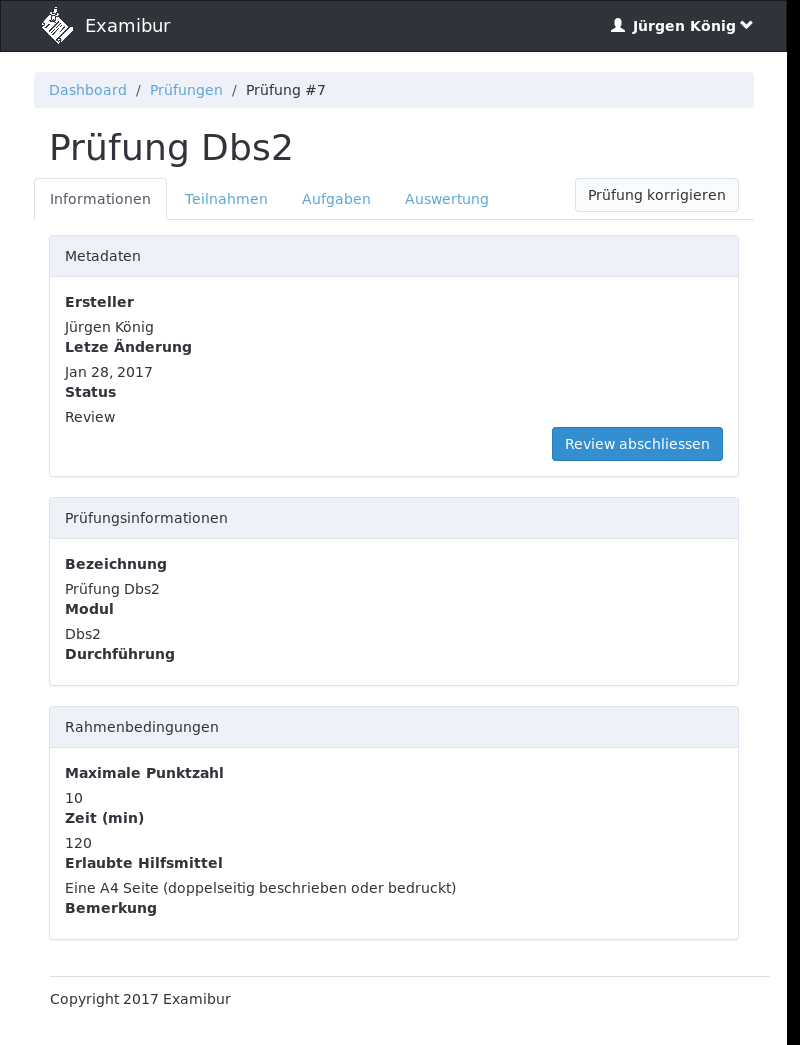
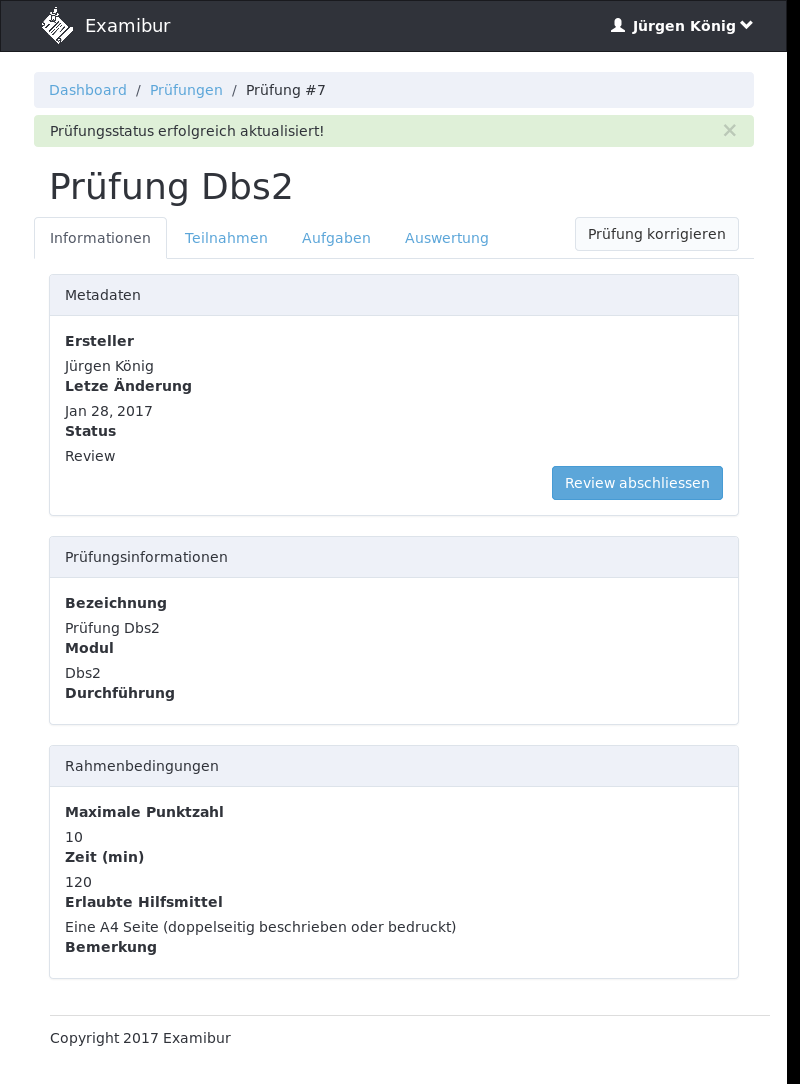
implement notification support

diff --git a/examibur/src/main/resources/public/css/custom.css b/examibur/src/main/resources/public/css/custom.css
@@ -1,3 +1,9 @@
+header > .alert {
+	margin-top: 7px;
+	padding-top: 5px;
+	padding-bottom: 5px;
+}
+
 .navbar-brand {
 	padding-top: 3px;
 }

diff --git a/examibur/src/main/java/ch/examibur/ui/app/filter/Filters.java b/examibur/src/main/java/ch/examibur/ui/app/filter/Filters.java
@@ -4,8 +4,11 @@ import ch.examibur.business.util.AuthenticationUtil;
 import ch.examibur.domain.User;
 import ch.examibur.service.AuthenticationService;
 import ch.examibur.service.exception.ExamiburException;
+import ch.examibur.service.exception.IllegalOperationException;
 import ch.examibur.service.exception.InvalidParameterException;
 import ch.examibur.service.model.AuthenticationInformation;
+import ch.examibur.ui.app.model.Message;
+import ch.examibur.ui.app.model.MessageType;
 import ch.examibur.ui.app.routing.QueryParameter;
 import ch.examibur.ui.app.routing.RouteBuilder;
 import ch.examibur.ui.app.util.BreadCrumbEntry;
@@ -13,14 +16,19 @@ import ch.examibur.ui.app.util.CookieHelpers;
 import ch.examibur.ui.app.util.RequestAttributes;
 import com.google.inject.Inject;
 import java.io.UnsupportedEncodingException;
+import java.net.URLDecoder;
 import java.util.HashMap;
 import java.util.LinkedList;
 import java.util.Map;
+import org.slf4j.Logger;
+import org.slf4j.LoggerFactory;
 import spark.Request;
 import spark.Response;
 import spark.Spark;
 
 public class Filters {
+
+  private static final Logger LOGGER = LoggerFactory.getLogger(Filters.class);
 
   private AuthenticationService authenticationService;
 
@@ -57,14 +65,37 @@ public class Filters {
    *          The current request.
    * @param response
    *          The planned response.
+   * @throws ExamiburException
+   *           throws an {@link IllegalOperationException} if the url decoding fails.
    */
-  public void addBaseModel(Request request, Response response) {
+  public void addBaseModel(Request request, Response response) throws ExamiburException {
     Map<String, Object> baseModel = new HashMap<>();
     baseModel.put(RequestAttributes.USER, request.attribute(RequestAttributes.USER));
     baseModel.put(RequestAttributes.TITLE, "Examibur");
     baseModel.put(RequestAttributes.BREADCRUMB, new LinkedList<BreadCrumbEntry>());
     baseModel.put(RequestAttributes.URL, request.uri());
+    addNotificationMessage(baseModel, request);
     request.attribute(RequestAttributes.MODEL, baseModel);
+  }
+
+  private void addNotificationMessage(Map<String, Object> baseModel, Request request)
+      throws ExamiburException {
+    String message = request.queryParams(QueryParameter.NOTIFICATION_MESSAGE.toString());
+    MessageType messageType =
+        MessageType.forName(request.queryParams(QueryParameter.NOTIFICATION_TYPE.toString()));
+    if (message != null && !message.isEmpty() && messageType != null) {
+      try {
+        message = URLDecoder.decode(message, "UTF-8");
+      } catch (UnsupportedEncodingException e) {
+        LOGGER.error(e.getMessage());
+        IllegalOperationException illegalOperationException =
+            new IllegalOperationException("Error while decoding the query parameter "
+                + QueryParameter.NOTIFICATION_MESSAGE.toString());
+        LOGGER.error(illegalOperationException.getMessage(), illegalOperationException);
+        throw illegalOperationException;
+      }
+      baseModel.put(RequestAttributes.NOTIFICATION_MESSAGE, new Message(message, messageType));
+    }
   }
 
   /**
@@ -99,8 +130,8 @@ public class Filters {
 
   private void redirectToLoginPage(Request request, Response response) {
     if (!request.uri().startsWith(RouteBuilder.toLogin())) {
-      String redirectUrl = RouteBuilder.addQueryParameter(RouteBuilder.toLogin(),
-          QueryParameter.REF.toString(), request.uri());
+      String redirectUrl =
+          RouteBuilder.addQueryParameter(RouteBuilder.toLogin(), QueryParameter.REF, request.uri());
       response.redirect(redirectUrl);
       Spark.halt();
     }

diff --git a/examibur/src/main/java/ch/examibur/ui/app/routing/RouteBuilder.java b/examibur/src/main/java/ch/examibur/ui/app/routing/RouteBuilder.java
@@ -1,6 +1,16 @@
 package ch.examibur.ui.app.routing;
 
+import ch.examibur.service.exception.ExamiburException;
+import ch.examibur.service.exception.IllegalOperationException;
+import ch.examibur.ui.app.model.MessageType;
+import java.io.UnsupportedEncodingException;
+import java.net.URLEncoder;
+import org.slf4j.Logger;
+import org.slf4j.LoggerFactory;
+
 public final class RouteBuilder {
+
+  private static final Logger LOGGER = LoggerFactory.getLogger(RouteBuilder.class);
 
   private RouteBuilder() {
   }
@@ -84,7 +94,7 @@ public final class RouteBuilder {
     url = replace(url, UrlParameter.PARTICIPANT_ID, participantId);
     return url;
   }
-  
+
   /**
    * Returns the absolute url to all reports of the given exam. It is the responsibility of the
    * caller to provide a valid id!
@@ -118,7 +128,7 @@ public final class RouteBuilder {
     url = replace(url, UrlParameter.PARTICIPANT_ID, participantId);
     url = replace(url, UrlParameter.SOLUTION_ID, solutionId);
     if (browseSolutionsValue != null) {
-      url = RouteBuilder.addQueryParameter(url, QueryParameter.BROWSE_SOLUTIONS.toString(),
+      url = RouteBuilder.addQueryParameter(url, QueryParameter.BROWSE_SOLUTIONS,
           browseSolutionsValue.toString());
     }
     return url;
@@ -149,7 +159,7 @@ public final class RouteBuilder {
     url = replace(url, UrlParameter.SOLUTION_ID, solutionId);
     url = replace(url, UrlParameter.GRADING_ID, gradingId);
     if (browseSolutionsValue != null) {
-      url = RouteBuilder.addQueryParameter(url, QueryParameter.BROWSE_SOLUTIONS.toString(),
+      url = RouteBuilder.addQueryParameter(url, QueryParameter.BROWSE_SOLUTIONS,
           browseSolutionsValue.toString());
     }
     return url;
@@ -176,6 +186,47 @@ public final class RouteBuilder {
       delimiter = '&';
     }
     return url + delimiter + key + '=' + value;
+  }
+
+  /**
+   * A convenience method, equivalent to {@link #addQueryParameter(String, String, String)} with a
+   * {@link QueryParameter} input for predefined query parameters.
+   */
+  public static String addQueryParameter(String url, QueryParameter queryParameter, String value) {
+    return addQueryParameter(url, queryParameter.toString(), value);
+  }
+
+  /**
+   * @param url
+   *          the given url
+   * @param message
+   *          the notification message text
+   * @param type
+   *          the type of the message
+   * @return the given url appended by the message (UTF-8 encoded) and its key as query parameters.
+   *         If a message already exists in the url it will be appended also (no replacement).
+   * @throws ExamiburException
+   *           throws an {@link IllegalOperationException} if the url encoding fails.
+   */
+  public static String addMessageParameter(String url, String message, MessageType type)
+      throws ExamiburException {
+    String encodedMessage;
+    try {
+      encodedMessage = URLEncoder.encode(message, "UTF-8");
+    } catch (UnsupportedEncodingException e) {
+      LOGGER.error(e.getMessage());
+      IllegalOperationException illegalOperationException =
+          new IllegalOperationException("Error while encoding the query parameter "
+              + QueryParameter.NOTIFICATION_MESSAGE.toString());
+      LOGGER.error(illegalOperationException.getMessage(), illegalOperationException);
+      throw illegalOperationException;
+    }
+    String target = url;
+    target =
+        RouteBuilder.addQueryParameter(target, QueryParameter.NOTIFICATION_MESSAGE, encodedMessage);
+    target =
+        RouteBuilder.addQueryParameter(target, QueryParameter.NOTIFICATION_TYPE, type.getType());
+    return target;
   }
 
 }

diff --git a/examibur/src/integrationtest/java/ch/examibur/ui/app/UiTest.java b/examibur/src/integrationtest/java/ch/examibur/ui/app/UiTest.java
@@ -15,7 +15,6 @@ import org.junit.Test;
 import org.junit.runner.RunWith;
 import org.openqa.selenium.By;
 import org.openqa.selenium.Cookie;
-import org.openqa.selenium.WebElement;
 import org.openqa.selenium.support.ui.ExpectedConditions;
 import org.openqa.selenium.support.ui.WebDriverWait;
 import ru.yandex.qatools.ashot.AShot;
@@ -439,15 +438,11 @@ public class UiTest {
 
     WebDriverWait wait = new WebDriverWait(getDriver(), 25);
     wait.until((x) -> {
-      if (getDriver().findElement(By.id("exam-state")).getText().equals("Correction")) {
-        return false;
-      }
-      WebElement state = getDriver().findElement(By.id("exam-state"));
-      return state.isDisplayed() && !state.getText().equals("Correction");
+      return getDriver().findElement(By.id("notification-message")).isDisplayed();
     });
 
-    Assert.assertTrue("Wrong ExamState after transition!",
-        getDriver().findElement(By.id("exam-state")).getText().equals("Review"));
+    Assert.assertTrue("Transition not successful!", getDriver()
+        .findElement(By.id("notification-message")).getAttribute("class").contains("bg-success"));
     assertScreenshots();
   }
 
@@ -457,6 +452,14 @@ public class UiTest {
     final String testUrl = TEST_URL + RouteBuilder.toExam(6L);
     getDriver().get(testUrl);
     getDriver().findElement(By.id("start-transition")).click();
+
+    WebDriverWait wait = new WebDriverWait(getDriver(), 25);
+    wait.until((x) -> {
+      return getDriver().findElement(By.id("notification-message")).isDisplayed();
+    });
+
+    Assert.assertTrue("No error message displayed after impossible transition!", getDriver()
+        .findElement(By.id("notification-message")).getAttribute("class").contains("bg-danger"));
     assertScreenshots();
   }
 

diff --git a/examibur/src/main/java/ch/examibur/ui/app/controller/ExamController.java b/examibur/src/main/java/ch/examibur/ui/app/controller/ExamController.java
@@ -7,8 +7,10 @@ import ch.examibur.service.ExamService;
 import ch.examibur.service.exception.AuthorizationException;
 import ch.examibur.service.exception.CommunicationException;
 import ch.examibur.service.exception.ExamiburException;
+import ch.examibur.service.exception.IllegalOperationException;
 import ch.examibur.service.exception.InvalidParameterException;
 import ch.examibur.service.exception.NotFoundException;
+import ch.examibur.ui.app.model.MessageType;
 import ch.examibur.ui.app.render.Renderer;
 import ch.examibur.ui.app.routing.RouteBuilder;
 import ch.examibur.ui.app.routing.RoutingHelpers;
@@ -92,8 +94,16 @@ public class ExamController implements Controller {
    */
   public String setNextExamState(Request request, Response response) throws ExamiburException {
     long examId = RoutingHelpers.getUnsignedLongUrlParameter(request, UrlParameter.EXAM_ID);
-    examService.setNextState(examId);
-    response.redirect(RouteBuilder.toExam(examId), Redirect.Status.FOUND.intValue());
+    String target = RouteBuilder.toExam(examId);
+    try {
+      examService.setNextState(examId);
+      target = RouteBuilder.addMessageParameter(target, "Prüfungsstatus erfolgreich aktualisiert!",
+          MessageType.SUCCESS);
+    } catch (IllegalOperationException e) {
+      target = RouteBuilder.addMessageParameter(target,
+          "Fehler: Diese Prüfung hat noch unbearbeitete Aufgaben.", MessageType.DANGER);
+    }
+    response.redirect(target, Redirect.Status.FOUND.intValue());
     return null;
   }
 

diff --git a/examibur/src/main/java/ch/examibur/ui/app/model/MessageType.java b/examibur/src/main/java/ch/examibur/ui/app/model/MessageType.java
@@ -1,0 +1,40 @@
+package ch.examibur.ui.app.model;
+
+import java.util.EnumSet;
+import java.util.HashMap;
+import java.util.Map;
+
+public enum MessageType {
+  SUCCESS("success"),
+  INFO("info"),
+  WARNING("warning"),
+  DANGER("danger");
+
+  private final String type;
+
+  private static final Map<String, MessageType> nameToValueMap = new HashMap<>();
+
+  static {
+    for (MessageType messageType : EnumSet.allOf(MessageType.class)) {
+      nameToValueMap.put(messageType.getType(), messageType);
+    }
+  }
+
+  private MessageType(String type) {
+    this.type = type;
+  }
+
+  public String getType() {
+    return type;
+  }
+
+  /**
+   * @param type
+   *          the value of the enum property "type"
+   * @return returns the enum object which belongs to the given property "type". Returns null if no
+   *         matching enum is found.
+   */
+  public static MessageType forName(String type) {
+    return nameToValueMap.get(type);
+  }
+}

diff --git a/examibur/src/main/java/ch/examibur/ui/app/model/Message.java b/examibur/src/main/java/ch/examibur/ui/app/model/Message.java
@@ -1,0 +1,36 @@
+package ch.examibur.ui.app.model;
+
+public class Message {
+
+  private String messageText;
+  private MessageType type;
+
+  public Message(String message, MessageType type) {
+    this.messageText = message;
+    this.type = type;
+  }
+
+  public static Message success(String message) {
+    return new Message(message, MessageType.SUCCESS);
+  }
+
+  public static Message info(String message) {
+    return new Message(message, MessageType.INFO);
+  }
+
+  public static Message warning(String message) {
+    return new Message(message, MessageType.WARNING);
+  }
+
+  public static Message danger(String message) {
+    return new Message(message, MessageType.DANGER);
+  }
+
+  public String getMessageText() {
+    return messageText;
+  }
+
+  public MessageType getType() {
+    return type;
+  }
+}

diff --git a/examibur/src/main/java/ch/examibur/ui/app/routing/QueryParameter.java b/examibur/src/main/java/ch/examibur/ui/app/routing/QueryParameter.java
@@ -3,7 +3,9 @@ package ch.examibur.ui.app.routing;
 public enum QueryParameter {
   REF("ref"),
   QUERY_NEXT_SOLUTION("querynext"),
-  BROWSE_SOLUTIONS("browse");
+  BROWSE_SOLUTIONS("browse"),
+  NOTIFICATION_MESSAGE("notification-message"),
+  NOTIFICATION_TYPE("notification-type");
 
   private final String name;
 
@@ -15,5 +17,4 @@ public enum QueryParameter {
   public String toString() {
     return name;
   }
-
 }

diff --git a/examibur/src/main/java/ch/examibur/ui/app/util/RequestAttributes.java b/examibur/src/main/java/ch/examibur/ui/app/util/RequestAttributes.java
@@ -6,6 +6,7 @@ public final class RequestAttributes {
   public static final String URL = "url";
   public static final String TITLE = "title";
   public static final String BREADCRUMB = "breadcrumb";
+  public static final String NOTIFICATION_MESSAGE = "notificationMessage";
 
   private RequestAttributes() {
   }
